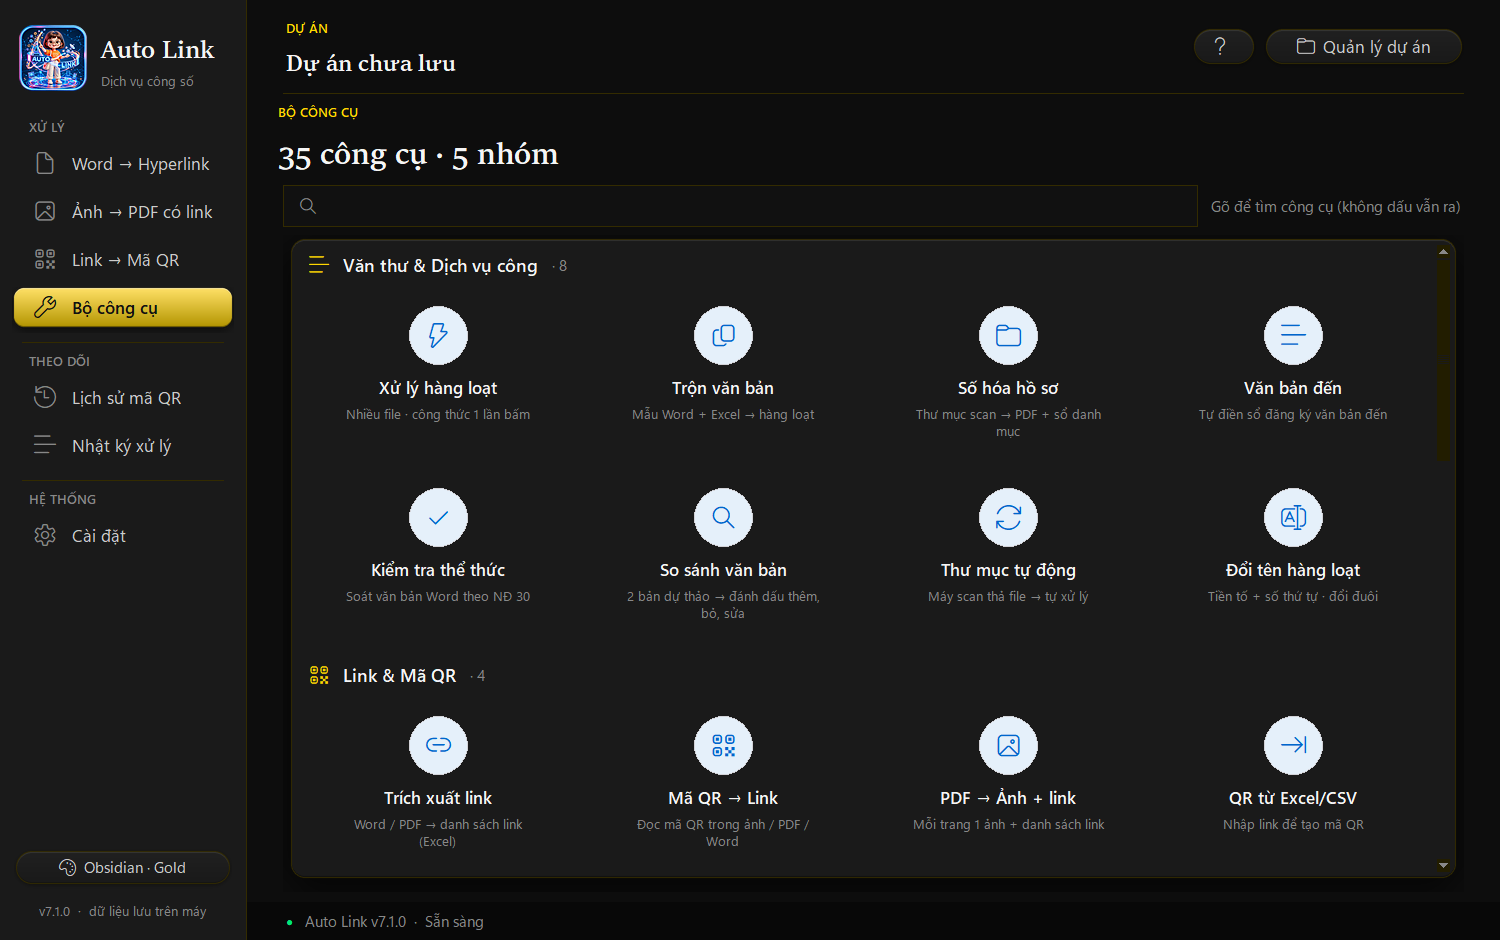
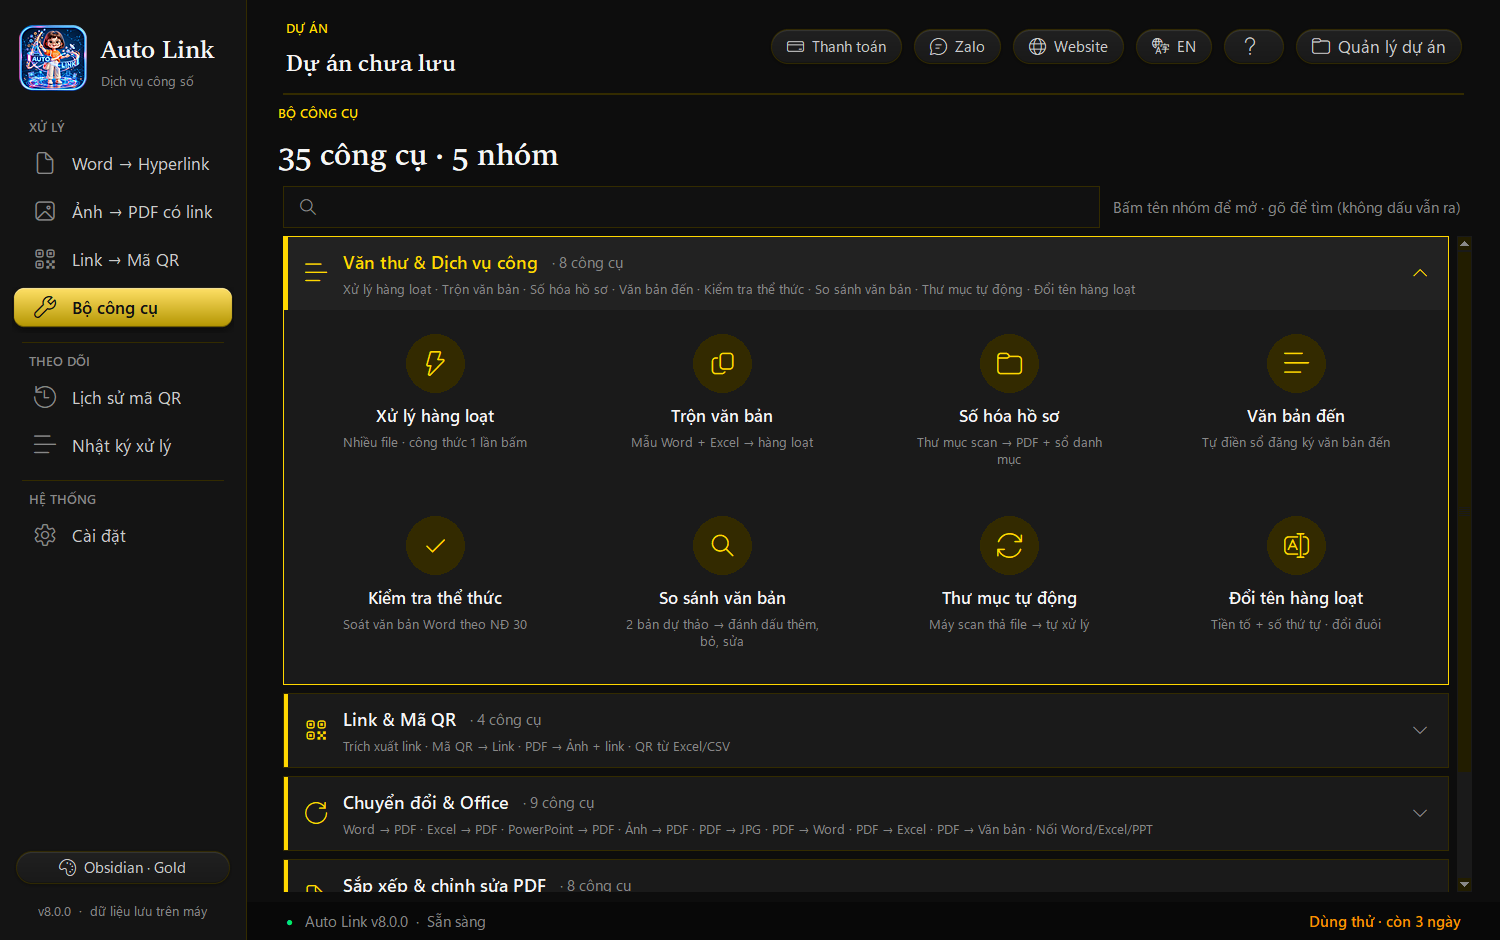
Auto Link 8.0.0 — dùng thử 3 ngày, gói Pro 49.000đ / tháng, tự cập nhật, 8 chủ đề, Tiếng Việt / English
- README (VI + EN): bảng giá gói Pro (49.000đ / tháng · 12 tháng 490.000đ) & kích hoạt, liên hệ, tính năng 8.0, quyền riêng tư (mạng chỉ dùng cho bản quyền /
  cập nhật / cào link), xử lý sự cố bản quyền
- Điều khoản sử dụng, quyền riêng tư & hoàn tiền: docs/DIEU_KHOAN.md
- Ảnh giao diện 8.0 (accordion, chủ đề Glass Aurora / Neumorphism / Holo, thanh toán, liên hệ, tiếng Anh)
- CHANGELOG 8.0.0

diff --git a/docs/readme/README.en.md b/docs/readme/README.en.md
@@ -1,6 +1,6 @@
 <h1 align="center"><img src="../banner.png" alt="Auto Link — PDF, clerical & public-service toolkit" width="100%"></h1>
 
-<p align="center"><b>A PDF, clerical &amp; public-service toolkit for Vietnamese one-stop service desks — Word → Hyperlink, Image → linked PDF, Link → QR code, Vietnamese OCR, ⇄ reverse functions and 35 PDF / Office tools in one Windows app.</b></p>
+<p align="center"><b>A PDF, clerical &amp; public-service toolkit for Vietnamese one-stop service desks — Word → Hyperlink, Image → linked PDF, Link → QR code, Vietnamese OCR, ⇄ reverse functions (with procedure names) and 35 PDF / Office tools in one Windows app. 3-day free trial.</b></p>
 
 <p align="center">🇻🇳 <a href="../../README.md">Tiếng Việt</a> · 🇬🇧 <b>English</b></p>
 
@@ -16,6 +16,8 @@
   <img alt="Offline" src="https://img.shields.io/badge/data-100%25%20local-0EA5E9?style=flat-square&logo=shield&logoColor=white">
   <img alt="Reverse" src="https://img.shields.io/badge/%E2%87%84-reverse%20functions-D97706?style=flat-square">
   <img alt="Any screen" src="https://img.shields.io/badge/any%20screen-1024%C3%97768%20%E2%86%92%204K-64748B?style=flat-square&logo=windowsterminal&logoColor=white">
+  <img alt="3-day trial" src="https://img.shields.io/badge/trial-3%20days%20free-16A34A?style=flat-square&logo=gift&logoColor=white">
+  <img alt="English / Vietnamese" src="https://img.shields.io/badge/UI-English%20%2F%20Ti%E1%BA%BFng%20Vi%E1%BB%87t-2563EB?style=flat-square&logo=googletranslate&logoColor=white">
 </p>
 
 <p align="center"><img src="../screenshots/01-word-hyperlink.png" alt="Auto Link" width="92%"></p>
@@ -35,6 +37,10 @@
 
 **Setup package:** extract the zip, double-click **`Cai_dat.cmd`** → installs per-user to `%LOCALAPPDATA%\Programs\AutoLink` (no admin rights), verifies the **SHA-256** of `Auto_Link.exe` against `version.json`. Put the extracted folder on a network share that only IT can write to: when IT replaces it with a newer build, every PC offers the update on next launch (hash-checked, with automatic rollback).
 
+**First launch:** sign in with your **Gmail** → **3-day free trial** with every feature. When it ends, the app asks you to **upgrade to Pro — 49,000 VND / month** to keep using every feature (see **[💳 Pricing](#-pricing--activation)**). Switch the interface to English with the **EN** button on the top bar.
+
+**Automatic updates:** when a new release is on GitHub, a bar shows the release notes → click **Update now** to download, verify the **digital signature + SHA-256**, swap the file and restart. A tampered download is never installed.
+
 After installing, open **⚙ Settings › ✅ System check** — every item should show ✓.
 
 | | Component | Requirement |
@@ -42,7 +48,7 @@ After installing, open **⚙ Settings › ✅ System check** — every item s
 | 🪟 | OS | Windows 10 / 11 **64-bit** |
 | 🖥 | Display | **Any size**: 1024 × 768 to 4K, scaling **100 – 250 %**, 14-inch laptops, tablets; small / snapped windows keep every control |
 | 📎 | Microsoft Office 2013+ | Only for **Word / Excel / PowerPoint → PDF** and merging Office files |
-| 🌐 | Network | Not required — only when you click **Scrape links** or for internal updates |
+| 🌐 | Network | Document processing **works offline**. Needed for sign-in / license activation, updates, or when you click **Scrape links** |
 
 ---
 
@@ -104,8 +110,28 @@ Revert the last run: new files go to the **Recycle Bin**, overwritten files are 
 </td>
 <td valign="top">
 
-### 🔒 Private · ⌨ Keyboard · 🎨 4 themes
-**100 % local** processing; fully keyboard-operable; 4 light / dark themes; adapts to any display scaling.
+### 🔒 Private · ⌨ Keyboard
+Documents are processed **100 % locally**, never uploaded; fully keyboard-operable; adapts to any display scaling.
+
+</td>
+</tr>
+<tr>
+<td valign="top">
+
+### 🎨 8 themes · 5 icon sets
+**Neumorphism** light / dark, **Glass · Aurora**, **Next-Gen · Holo** plus 4 classic themes; Fluent, Fluent color, Classic, Emoji and Thin-line icons; smooth motion effects (optional).
+
+</td>
+<td valign="top">
+
+### 🌐 English ⇄ Vietnamese
+The **EN / VI** button on the top bar switches the whole interface instantly — no restart.
+
+</td>
+<td valign="top">
+
+### 🔄 Auto-update · 💳 Trial
+New release on GitHub → **one click to update** (signature-checked). **3-day trial**, then **Pro 49,000 VND / month**, **activates automatically** after payment.
 
 </td>
 </tr>
@@ -119,9 +145,11 @@ Every main function has a **⇄ Reverse** button next to its title that opens th
 
 | Main function | ⇄ Reverse | Output |
 |---|---|---|
-| 📝 Word → Hyperlink | 🔗 **Extract links** | Every link in Word / PDF (hyperlinks, plain-text URLs incl. tables, QR images) → Excel: all occurrences + unique list; optional **remove hyperlinks** keeping the text |
-| 🖼 Image → linked PDF | 🏞 **PDF → images + links** | One JPG per page (100 – 300 dpi) + an Excel list of each page's links |
-| 🔳 Link → QR code | 📷 **QR code → links** | Reads **all** QR codes in images, PDFs (incl. scans) and Word files → Excel |
+| 📝 Word → Hyperlink | 🔗 **Extract links** | Every link in Word / PDF (hyperlinks, plain-text URLs incl. tables, QR images): all occurrences with **procedure code + name** + unique list; optional **remove hyperlinks** keeping the text |
+| 🖼 Image → linked PDF | 🏞 **PDF → images + links** | One JPG per page (100 – 300 dpi) + each page's links with procedure names |
+| 🔳 Link → QR code | 📷 **QR code → links** | Reads **all** QR codes in images, PDFs (incl. scans) and Word files → links / text + **procedure code and name** |
+
+**Report format:** 📊 Excel · 📝 Word · 📕 PDF · 📄 TXT · 🧾 CSV · or **📎 same as source** (Word → Word, PDF → PDF) — remembered for next time.
 
 | 🔗 Extract links | 🏞 PDF → images + links | 📷 QR code → links |
 |---|---|---|
@@ -151,12 +179,16 @@ flowchart LR
 | ![Options](../screenshots/02-tuy-chon.png) | ![Processing](../screenshots/03-xu-ly.png) |
 | 🔳 **Link → QR code** | ☑ **Pick links to generate** |
 | ![Link to QR](../screenshots/04-link-qr.png) | ![Categorise](../screenshots/05-phan-loai.png) |
-| 🗂 **QR history** | 🧰 **32 tools** |
+| 🗂 **QR history** | 🧰 **35 tools · accordion groups** |
 | ![History](../screenshots/06-lich-su.png) | ![Tools](../screenshots/07-cong-cu.png) |
 | ⚡ **Batch processing** | 🗄 **Records digitisation** |
 | ![Batch](../screenshots/08-xu-ly-hang-loat.png) | ![Digitise](../screenshots/09-so-hoa.png) |
 | ⚙ **Settings** | 🌙 **Dark theme — Obsidian · Gold** |
 | ![Settings](../screenshots/10-cai-dat.png) | ![Dark theme](../screenshots/11-giao-dien-toi.png) |
+| 🌌 **Glass · Aurora** | 🌈 **Next-Gen · Holo** |
+| ![Glass Aurora](../screenshots/16-chu-de-glass-aurora.png) | ![Holo](../screenshots/18-chu-de-holo.png) |
+| ☁ **Neumorphism · Light** | 🌐 **English interface** |
+| ![Neumorphism](../screenshots/17-chu-de-neumorphism.png) | ![English](../screenshots/21-english.png) |
 
 | Group | Tools |
 |---|---|
@@ -168,17 +200,45 @@ flowchart LR
 
 ---
 
+## 💳 Pricing & activation
+
+| Plan | Price | Duration | Includes |
+|---|---|---|---|
+| 🎁 **Trial** | Free | 3 days (once per PC) | Every feature |
+| ⭐ **Pro · 1 month** | **49,000 VND** | 31 days | **Every feature** + updates |
+| 🏆 **Pro · 12 months** | **490,000 VND** | 366 days | Price of 10 months — **2 months free** |
+
+After the 3-day trial, processing features require **Pro** — the app shows an upgrade notice (at launch, when you use a feature, or the moment the trial ends).
+
+<sub>Current prices are always shown in the app (**💳 Payment** button). A license is tied to the registered **Gmail + PC**. Prepaid, no auto-renewal — see the **[📜 Terms of use, privacy & refunds](../DIEU_KHOAN.md#english-summary)**.</sub>
+
+1. When the trial ends the app asks you to **upgrade to Pro** (to upgrade early: **💳 Payment › Upgrade to Pro**) → choose **Pro 1 month** or **Pro 12 months**.
+2. Scan the **VietQR** code with any Vietnamese banking app — **amount and transfer note are pre-filled** (the note is unique to your PC, please keep it).
+3. Click **Copy activation code** → send it with the **transaction screenshot** via **Zalo 0788962643**.
+4. Once confirmed, the license **activates automatically** — or paste the license code `AL1.…` you received and click **Activate**.
+
+<p align="center"><img src="../screenshots/19-thanh-toan.png" alt="License & payment" width="72%"></p>
+
+## 📞 Contact & support
+
+| | Channel | |
+|:-:|---|---|
+| 💬 | **Zalo / phone** | **[0788962643](https://zalo.me/0788962643)** — setup help, licenses, bug reports, office-wide purchases |
+| 🌐 | **Website** | **[mechamike.vercel.app](https://mechamike.vercel.app/)** |
+
+<p align="center"><img src="../screenshots/20-lien-he.png" alt="Contact" width="72%"></p>
+
 ## 🔒 Privacy
 
 > [!IMPORTANT]
-> All Word, PDF, image and link files are **processed on your PC** and never uploaded. The app only goes online when **you click Scrape links** (fetching exactly the page you pasted) or when checking the **internal update folder** configured by IT.
+> All Word, PDF, image and link files are **processed on your PC** and never uploaded. The app only goes online when **you click Scrape links** (fetching exactly the page you pasted), to **check your license** (only a **hashed** account ID is sent — never your Gmail or documents) and to **check / download updates** from GitHub (or the internal update folder configured by IT).
 
-Settings live in `%APPDATA%\AutoLink\`, QR codes and `LichSu_MaQR.csv` in `Documents\AUTO_LINK_QR`, projects in `Documents\AUTO_LINK_Projects`, the error log at `%APPDATA%\AutoLink\error.log`.
+Settings and the license file live in `%APPDATA%\AutoLink\`, QR codes and `LichSu_MaQR.csv` in `Documents\AUTO_LINK_QR`, projects in `Documents\AUTO_LINK_Projects`, the error log at `%APPDATA%\AutoLink\error.log`.
 
 ## 📜 Changelog · ⚖ License
 
 > [!TIP]
-> **Latest — 7.1.0:** ⇄ reverse functions for all 3 main features, grouped menu + tools with quick search, full layout on **any screen** (1024 × 768 → 4K, tablets, small windows).
+> **Latest — 8.0.0:** reverse functions with **procedure code + name** and **Excel / Word / PDF / TXT / CSV / same-as-source** reports; **accordion** toolbox; **8 themes** (Neumorphism, Glass Aurora, Next-Gen Holo…), **5 icon sets**, motion effects; **English ⇄ Vietnamese**; **Payment · Zalo · Website** buttons; **3-day trial**, then **Pro 49,000 VND / month** with automatic activation; **auto-update from GitHub** (signature-checked).
 
 See **[📜 CHANGELOG.md](../../CHANGELOG.md)** (Vietnamese) and **[🏷 Releases](https://github.com/mikeTran99/Auto-Link/releases)**.
 

diff --git a/docs/DIEU_KHOAN.md b/docs/DIEU_KHOAN.md
@@ -1,0 +1,82 @@
+# Điều khoản sử dụng & Chính sách quyền riêng tư — Auto Link
+
+<sub>Áp dụng từ phiên bản 8.0.0 · cập nhật 01/10/2026 · 🇬🇧 [English summary](#english-summary)</sub>
+
+Khi đăng nhập và sử dụng Auto Link, bạn đồng ý với các điều khoản dưới đây.
+
+## 1. Quyền sử dụng phần mềm
+
+- Auto Link thuộc quyền sở hữu của **Trần Lê Minh Trung** ([mikeTran99](https://github.com/mikeTran99)). Bạn được cấp
+  quyền sử dụng **không độc quyền, không chuyển nhượng** theo gói đã đăng ký.
+- Không được dịch ngược, sửa đổi, bán lại, cho thuê, chia sẻ mã bản quyền hoặc tìm cách vượt qua cơ chế bản quyền.
+- Vi phạm các điều trên: bản quyền có thể bị thu hồi mà không hoàn tiền.
+
+## 2. Dùng thử & gói trả phí
+
+| Gói | Thời hạn | Ghi chú |
+|---|---|---|
+| Dùng thử | 3 ngày | Miễn phí, đầy đủ chức năng, **1 lần / máy tính** |
+| Gói Pro · 1 tháng | 31 ngày | Tất cả chức năng · trả trước, **không tự gia hạn** |
+| Gói Pro · 12 tháng | 366 ngày | Tất cả chức năng · trả trước, **không tự gia hạn** |
+
+- Hết thời gian dùng thử, các chức năng xử lý chỉ dùng được khi có **gói Pro**; ứng dụng hiện thông báo yêu cầu nâng cấp.
+- Giá áp dụng là giá hiển thị trong ứng dụng (nút **Thanh toán**) tại thời điểm chuyển khoản.
+- Bản quyền gắn với **1 Gmail + 1 máy tính**. Đổi máy / cài lại Windows: liên hệ để được chuyển bản quyền.
+- Chuyển khoản phải ghi **đúng nội dung** ứng dụng cung cấp để được đối chiếu và kích hoạt.
+
+## 3. Hoàn tiền
+
+Bạn được dùng thử đầy đủ trước khi mua. Nếu phần mềm không chạy được trên máy của bạn và chúng tôi không khắc phục được
+trong **7 ngày** kể từ khi kích hoạt, chúng tôi hoàn lại tiền (bản quyền được thu hồi khi hoàn tiền). Yêu cầu qua Zalo
+kèm ảnh giao dịch.
+
+## 4. Dữ liệu cá nhân (theo Nghị định 13/2023/NĐ-CP)
+
+| Dữ liệu | Mục đích | Lưu ở đâu |
+|---|---|---|
+| **Gmail** bạn nhập (và tên hiển thị nếu đăng nhập Google) | Cấp, kích hoạt, hỗ trợ bản quyền | Máy của bạn (`%APPDATA%\AutoLink\license.json`); sổ cấp bản quyền của chủ sản phẩm |
+| **Mã máy** (mã băm cấu hình Windows, không chứa thông tin cá nhân) | Gắn bản quyền với máy tính | Như trên |
+| Ảnh giao dịch, nội dung chuyển khoản bạn gửi qua Zalo | Xác nhận thanh toán | Zalo; sổ cấp bản quyền |
+
+- **Tài liệu của bạn** (Word, PDF, ảnh, danh sách link…) được xử lý **hoàn toàn trên máy**, không tải lên bất kỳ đâu.
+- Giấy phép đăng trên GitHub chỉ chứa **mã băm** tài khoản + gói + hạn dùng — **không có Gmail**.
+- Ứng dụng kết nối mạng chỉ để: kiểm tra bản quyền (gửi mã băm), tải cấu hình giá đã ký, kiểm tra / tải bản cập nhật
+  từ GitHub, đăng nhập Google (khi bạn chọn), và cào link (khi bạn bấm).
+- Không dùng dữ liệu cho quảng cáo, **không bán hay chia sẻ** cho bên thứ ba.
+- Bạn có quyền yêu cầu xem, sửa, xoá dữ liệu của mình hoặc rút lại sự đồng ý (khi đó bản quyền sẽ không dùng được nữa)
+  — liên hệ Zalo bên dưới.
+
+## 5. Giới hạn trách nhiệm
+
+- Phần mềm được cung cấp "như hiện có". Hãy **kiểm tra kết quả** trước khi ban hành văn bản và **sao lưu dữ liệu**
+  thường xuyên (Cài đặt › Sao lưu).
+- Trách nhiệm tối đa của chúng tôi không vượt quá số tiền bạn đã trả cho gói đang dùng.
+
+## 6. Thay đổi điều khoản
+
+Điều khoản có thể được cập nhật tại trang này; thay đổi quan trọng sẽ được nêu trong ghi chú phiên bản. Tiếp tục sử
+dụng sau khi cập nhật nghĩa là bạn đồng ý với điều khoản mới.
+
+## 7. Liên hệ
+
+- Zalo / điện thoại: **[0788962643](https://zalo.me/0788962643)**
+- Website: **[mechamike.vercel.app](https://mechamike.vercel.app/)**
+
+---
+
+## English summary
+
+- **License:** non-exclusive, non-transferable right to use Auto Link per purchased plan; no reverse engineering,
+  reselling, sharing license codes or bypassing licensing.
+- **Plans:** 3-day free trial (once per PC); after it, processing features need the **Pro** plan, prepaid for 1 month
+  (31 days) or 12 months (366 days), **no auto-renewal**;
+  the price shown in the app at payment time applies; a license is tied to one Gmail + one PC (contact us to move it).
+- **Refunds:** if the app cannot run on your PC and we cannot fix it within 7 days of activation, we refund and revoke
+  the license.
+- **Privacy:** we store your Gmail (and Google display name if used) and a hashed machine ID to issue and support your
+  license. Documents are processed **only on your PC**. Licenses published on GitHub contain only a hashed account ID.
+  Network use: license check (hashed ID), signed price config, updates from GitHub, Google sign-in (optional), link
+  scraping (when you click). No ads, no selling or sharing of data. Ask us to view, correct or delete your data.
+- **Liability:** provided "as is"; check results before issuing documents; liability capped at the fee paid for the
+  current plan.
+- **Contact:** Zalo 0788962643 · [mechamike.vercel.app](https://mechamike.vercel.app/)

diff --git a/CHANGELOG.md b/CHANGELOG.md
@@ -1,5 +1,49 @@
 # Nhật ký thay đổi — Auto Link
 
+## 8.0.0 — 01/10/2026
+**Đảo tính năng: có mã + tên thủ tục, chọn định dạng báo cáo**
+- Trích xuất link, PDF → Ảnh + link, Mã QR → Link: thêm cột **Mã thủ tục** và **Tên thủ tục / Nội dung** (lấy từ chữ
+  quanh link trong Word / PDF, sổ Theo dõi TTHC, lịch sử mã QR, danh sách link đang mở).
+- Chọn định dạng báo cáo: **Excel, Word, PDF, TXT, CSV** hoặc **Theo file gốc** (Word → Word, PDF → PDF…); app nhớ
+  lựa chọn lần sau.
+
+**Bộ công cụ dạng accordion**: các nhóm thu gọn sẵn; bấm 1 nhóm thì nhóm đó mở, nhóm khác tự đóng (trượt mượt); ô tìm
+nhanh tự mở nhóm có kết quả.
+
+**Giao diện**
+- 8 chủ đề (thêm 4): **Neumorphism sáng / tối**, **Glass · Aurora**, **Next-Gen · Holo**. Cài đặt có bảng ô màu xem
+  trước, bấm là đổi.
+- 5 bộ icon đổi tại chỗ: Fluent, Fluent màu, Cổ điển, Emoji, Nét mảnh.
+- Hiệu ứng chuyển động (tắt được): nhóm trượt mở, thông báo trượt vào, gợn sóng khi bấm nút, vạch sáng khi chuyển trang.
+- Nút **EN / VI** trên thanh đầu: đổi toàn bộ giao diện Tiếng Việt ⇄ English ngay (dữ liệu, tên file giữ nguyên).
+- Thanh đầu có nút **Thanh toán** (mã VietQR ngân hàng), **Zalo** 0788962643 (mã QR), **Website** mechamike.vercel.app.
+
+**Bản quyền & thanh toán** (chỉ áp dụng ở bản `Auto_Link.exe`)
+- Đăng nhập Gmail (có thể thêm đăng nhập Google qua trình duyệt — OAuth PKCE — khi chủ sản phẩm cấu hình).
+- Dùng thử **3 ngày / máy**: chống xoá file / sửa tay / lùi đồng hồ (lưu kèm mã kiểm tra + registry).
+- **Gói Pro 49.000đ / tháng** (đủ mọi chức năng; gói 12 tháng 490.000đ = giá 10 tháng): mã VietQR có sẵn số tiền + nội
+  dung chuyển khoản riêng từng khách → gửi mã kích hoạt + ảnh giao dịch qua Zalo.
+- Hết 3 ngày dùng thử → app hiện thông báo **yêu cầu nâng cấp gói Pro** (lúc mở app, khi bấm bất kỳ chức năng nào, và tự
+  hiện nếu app đang mở đúng lúc hết hạn); đang dùng thử thì nhắc trước giá gói Pro. Thư mục tự động tạm dừng khi hết hạn
+  (không xử lý miễn phí), có bản quyền là tự chạy lại.
+- Chủ sản phẩm duyệt bằng công cụ quản trị (`admin\autolink_admin.py`, không đóng gói vào EXE) → giấy phép ký số
+  Ed25519 gắn Gmail + máy, đưa lên GitHub → app **tự kích hoạt** (kiểm tra mỗi 30 phút, mỗi phút khi đang mở trang
+  thanh toán); hoặc dán mã bản quyền `AL1.…` để kích hoạt ngay. Thu hồi được; giá, số ngày dùng thử, tài khoản nhận tiền
+  đổi được qua cấu hình cửa hàng đã ký (không cần phát hành bản mới).
+- App chỉ gửi **mã băm tài khoản** lên GitHub để kiểm tra — tài liệu luôn xử lý trên máy. Giấy phép đăng công khai chỉ
+  chứa mã băm (Gmail + máy), không chứa Gmail.
+- **Điều khoản sử dụng & Chính sách quyền riêng tư** (NĐ 13/2023, hoàn tiền, không tự gia hạn): hộp đăng nhập báo
+  "Tiếp tục nghĩa là bạn đồng ý…" + nút **Điều khoản**; trang thanh toán cũng có nút Điều khoản.
+
+**Cập nhật tự động qua GitHub**: mở app (tối đa 12 giờ / lần) kiểm tra bản phát hành mới → thanh thông báo kèm ghi chú
+phiên bản → bấm **Cập nhật ngay**: tải (có tiến độ), kiểm chữ ký số + SHA-256, thay file khi app đóng rồi tự mở lại.
+Bản tải về bị sửa → không cập nhật. Thư mục cập nhật nội bộ của IT vẫn dùng được.
+
+**Khác**
+- Hướng dẫn trong app thêm mục Giao diện & ngôn ngữ, Bản quyền & thanh toán.
+- Hộp đăng nhập hiện khi đã vừa nội dung (không chớp hàng nút bị ép trên màn nhỏ).
+- Tự kiểm tra EXE thêm mục "Bản quyền (chữ ký số, VietQR) + báo cáo Word / PDF / TXT / CSV".
+
 ## 7.1.1 — 01/10/2026 (bản sửa lỗi)
 - **"Mở file" ở màn hình kết quả không mở được** (`[WinError -2147221003] Application not found`): máy đặt ứng dụng
   khác (vd WPS) mở PDF nhưng thiếu liên kết hệ thống `.pdf`. Mọi nút mở file / thư mục dùng `open_path`: chuẩn hoá
